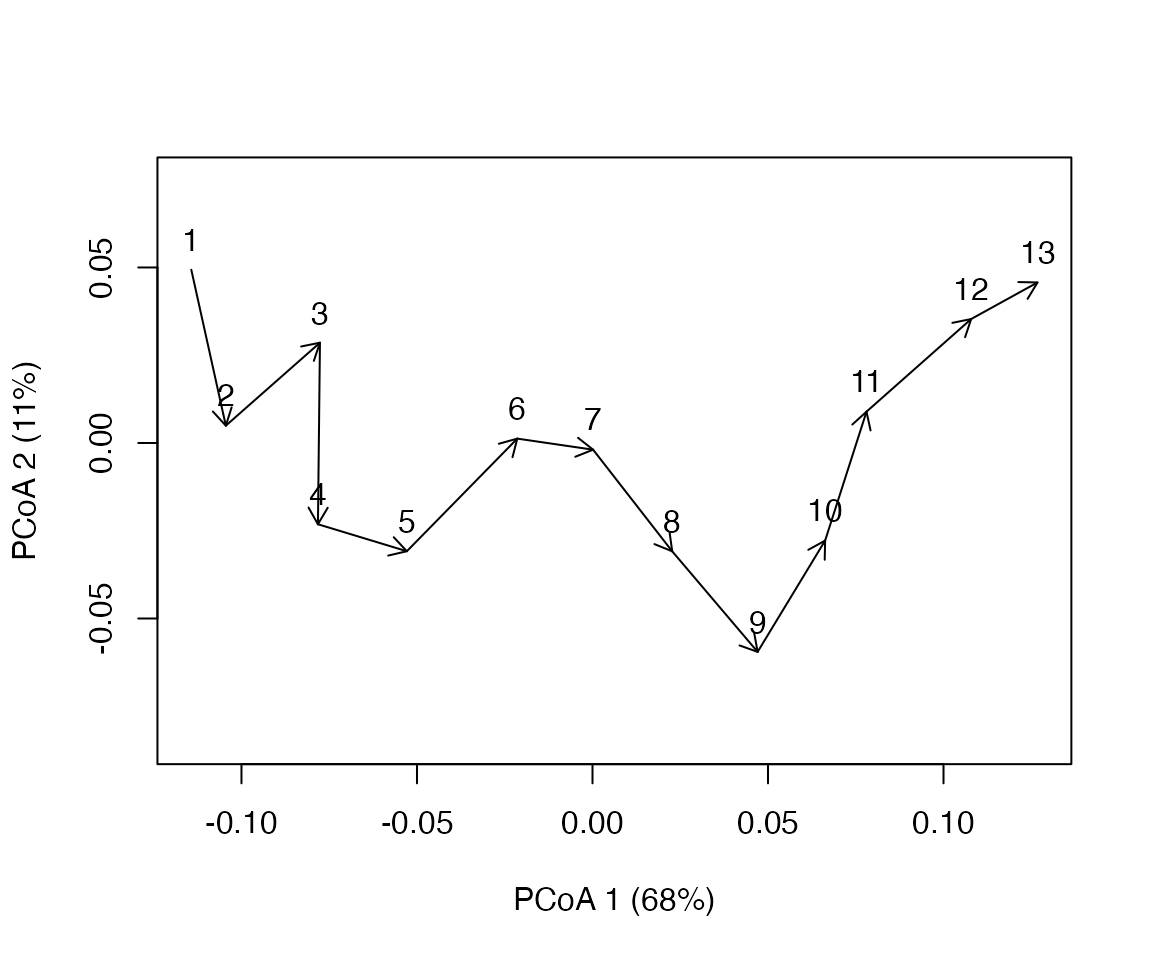
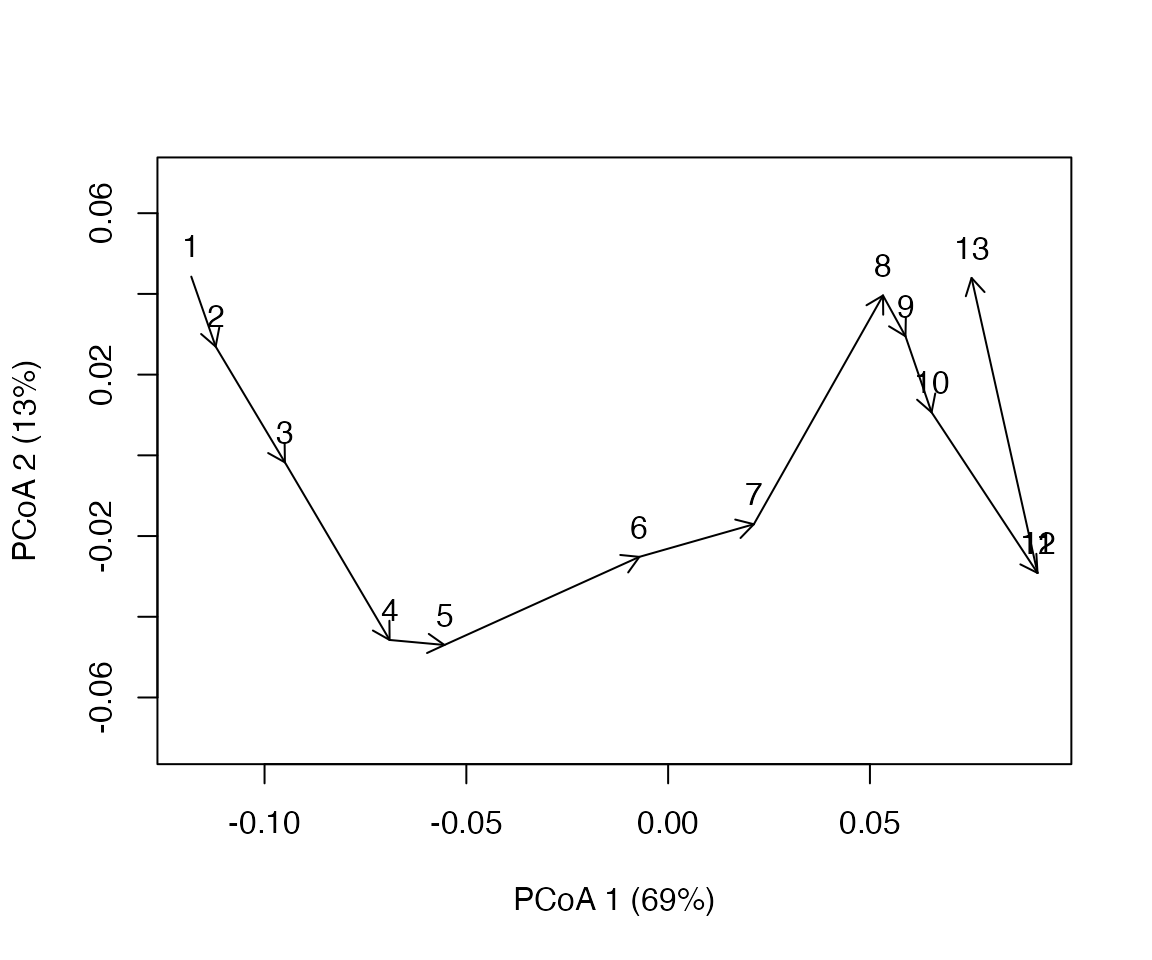
Built site for ecotraj: 0.0.1@fcbf907

diff --git a/articles/Transformation.html b/articles/Transformation.html
@@ -78,7 +78,7 @@
       <h1 data-toc-skip>Transformation of dissimilarities in community data</h1>
                         <h4 class="author">Miquel De Cáceres</h4>
             
-            <h4 class="date">2021-06-08</h4>
+            <h4 class="date">2021-06-10</h4>
       
       
       <div class="hidden name"><code>Transformation.Rmd</code></div>
@@ -213,16 +213,20 @@
 <p>Local transformations are not possible to display trajectories. When we plot the trajectory using function <code>trajectoryPCoA</code> the global transformation of principal coordinates analysis (PCoA) with negative eigenvalue correction is performed. This is fine to display trajectories, but has problems when measuring angular properties, as we will see.</p>
 <div class="sourceCode" id="cb33"><pre class="downlit sourceCode r">
 <code class="sourceCode R"><span class="va">pcoa</span><span class="op">&lt;-</span><span class="fu"><a href="../reference/trajectoryplots.html">trajectoryPCoA</a></span><span class="op">(</span><span class="va">D</span>, <span class="va">sites</span>, <span class="va">surveys</span>, selection<span class="op">=</span><span class="fl">1</span>,length<span class="op">=</span><span class="fl">0.1</span>, axes<span class="op">=</span><span class="fu"><a href="https://rdrr.io/r/base/c.html">c</a></span><span class="op">(</span><span class="fl">1</span>,<span class="fl">2</span><span class="op">)</span>, survey.labels <span class="op">=</span> <span class="cn">T</span><span class="op">)</span></code></pre></div>
+<pre><code>## Warning in arrows(x[niini], y[niini], x[nifin], y[nifin], ...): zero-length
+## arrow is of indeterminate angle and so skipped</code></pre>
 <p><img src="Transformation_files/figure-html/unnamed-chunk-14-1.png" width="576" style="display: block; margin: auto;"></p>
-<div class="sourceCode" id="cb34"><pre class="downlit sourceCode r">
+<div class="sourceCode" id="cb35"><pre class="downlit sourceCode r">
 <code class="sourceCode R"><span class="va">pcoaD</span> <span class="op">=</span> <span class="fu"><a href="https://rdrr.io/r/stats/dist.html">dist</a></span><span class="op">(</span><span class="va">pcoa</span><span class="op">$</span><span class="va">points</span><span class="op">)</span></code></pre></div>
 <p>The trajectory has some twists derived from stochasticity in death and recruitment. Let’s now look at the square root of the Bray-Curtis dissimilarity:</p>
-<div class="sourceCode" id="cb35"><pre class="downlit sourceCode r">
+<div class="sourceCode" id="cb36"><pre class="downlit sourceCode r">
 <code class="sourceCode R"><span class="va">sqrtD</span> <span class="op">=</span> <span class="fu"><a href="https://rdrr.io/r/base/MathFun.html">sqrt</a></span><span class="op">(</span><span class="va">D</span><span class="op">)</span>
 <span class="va">pcoaSqrt</span> <span class="op">=</span> <span class="fu"><a href="../reference/trajectoryplots.html">trajectoryPCoA</a></span><span class="op">(</span><span class="va">sqrtD</span>, <span class="va">sites</span>, <span class="va">surveys</span>, selection<span class="op">=</span><span class="fl">1</span>,length<span class="op">=</span><span class="fl">0.1</span>, axes<span class="op">=</span><span class="fu"><a href="https://rdrr.io/r/base/c.html">c</a></span><span class="op">(</span><span class="fl">1</span>,<span class="fl">2</span><span class="op">)</span>, survey.labels <span class="op">=</span> <span class="cn">T</span><span class="op">)</span></code></pre></div>
+<pre><code>## Warning in arrows(x[niini], y[niini], x[nifin], y[nifin], ...): zero-length
+## arrow is of indeterminate angle and so skipped</code></pre>
 <p><img src="Transformation_files/figure-html/unnamed-chunk-15-1.png" width="576" style="display: block; margin: auto;"></p>
 <p>Finally, we also transform dissimilarities using metric multidimensional scaling (mMDS), provided by package <code>smacof</code>:</p>
-<div class="sourceCode" id="cb36"><pre class="downlit sourceCode r">
+<div class="sourceCode" id="cb38"><pre class="downlit sourceCode r">
 <code class="sourceCode R"><span class="va">res</span> <span class="op">&lt;-</span> <span class="fu">smacof</span><span class="fu">::</span><span class="fu"><a href="https://rdrr.io/pkg/smacof/man/smacofSym.html">mds</a></span><span class="op">(</span><span class="va">D</span>, ndim <span class="op">=</span> <span class="fu"><a href="https://rdrr.io/r/base/length.html">length</a></span><span class="op">(</span><span class="va">Sj</span><span class="op">)</span><span class="op">-</span><span class="fl">1</span>, type <span class="op">=</span> <span class="st">"interval"</span><span class="op">)</span></code></pre></div>
 <pre><code>## Registered S3 methods overwritten by 'car':
 ##   method                          from
@@ -230,22 +234,24 @@
 ##   cooks.distance.influence.merMod lme4
 ##   dfbeta.influence.merMod         lme4
 ##   dfbetas.influence.merMod        lme4</code></pre>
-<div class="sourceCode" id="cb38"><pre class="downlit sourceCode r">
+<div class="sourceCode" id="cb40"><pre class="downlit sourceCode r">
 <code class="sourceCode R"><span class="va">mmdsD</span> <span class="op">&lt;-</span> <span class="fu"><a href="https://rdrr.io/r/stats/dist.html">dist</a></span><span class="op">(</span><span class="va">res</span><span class="op">$</span><span class="va">conf</span><span class="op">)</span>
 <span class="fu"><a href="../reference/trajectoryplots.html">trajectoryPlot</a></span><span class="op">(</span><span class="va">res</span><span class="op">$</span><span class="va">conf</span>, <span class="va">sites</span>, <span class="va">surveys</span>, selection<span class="op">=</span><span class="fl">1</span>,length<span class="op">=</span><span class="fl">0.1</span>, axes<span class="op">=</span><span class="fu"><a href="https://rdrr.io/r/base/c.html">c</a></span><span class="op">(</span><span class="fl">1</span>,<span class="fl">2</span><span class="op">)</span>, survey.labels <span class="op">=</span> <span class="cn">T</span><span class="op">)</span></code></pre></div>
+<pre><code>## Warning in arrows(xp[niini], yp[niini], xp[nifin], yp[nifin], ...): zero-length
+## arrow is of indeterminate angle and so skipped</code></pre>
 <p><img src="Transformation_files/figure-html/unnamed-chunk-16-1.png" width="576" style="display: block; margin: auto;"></p>
 <p>While the three plots look different, the differences are not striking (besides rotation issues). We can compare the stress of the global solutions:</p>
-<div class="sourceCode" id="cb39"><pre class="downlit sourceCode r">
+<div class="sourceCode" id="cb42"><pre class="downlit sourceCode r">
 <code class="sourceCode R"><span class="fu">smacof</span><span class="fu">::</span><span class="fu"><a href="https://rdrr.io/pkg/smacof/man/stress0.html">stress0</a></span><span class="op">(</span><span class="va">D</span>,<span class="va">pcoaSqrt</span><span class="op">$</span><span class="va">points</span>, type<span class="op">=</span><span class="st">"interval"</span><span class="op">)</span></code></pre></div>
-<pre><code>## [1] 0.04722027</code></pre>
-<div class="sourceCode" id="cb41"><pre class="downlit sourceCode r">
+<pre><code>## [1] 0.07178977</code></pre>
+<div class="sourceCode" id="cb44"><pre class="downlit sourceCode r">
 <code class="sourceCode R"><span class="fu">smacof</span><span class="fu">::</span><span class="fu"><a href="https://rdrr.io/pkg/smacof/man/stress0.html">stress0</a></span><span class="op">(</span><span class="va">D</span>,<span class="va">pcoa</span><span class="op">$</span><span class="va">points</span>, type<span class="op">=</span><span class="st">"interval"</span><span class="op">)</span></code></pre></div>
-<pre><code>## [1] 0.01037559</code></pre>
-<div class="sourceCode" id="cb43"><pre class="downlit sourceCode r">
+<pre><code>## [1] 0.01578923</code></pre>
+<div class="sourceCode" id="cb46"><pre class="downlit sourceCode r">
 <code class="sourceCode R"><span class="fu">smacof</span><span class="fu">::</span><span class="fu"><a href="https://rdrr.io/pkg/smacof/man/stress0.html">stress0</a></span><span class="op">(</span><span class="va">D</span>,<span class="va">res</span><span class="op">$</span><span class="va">conf</span>, type<span class="op">=</span><span class="st">"interval"</span><span class="op">)</span></code></pre></div>
-<pre><code>## [1] 0.01331361</code></pre>
+<pre><code>## [1] 0.01610293</code></pre>
 <p>Where we see that the square root leads to the strongest alteration of original dissimilarities. If we calculate geometric properties we are not limited by ordination plots and we can take into account all dimensions.</p>
-<div class="sourceCode" id="cb45"><pre class="downlit sourceCode r">
+<div class="sourceCode" id="cb48"><pre class="downlit sourceCode r">
 <code class="sourceCode R"><span class="va">anglesD</span> <span class="op">=</span> <span class="fu"><a href="../reference/trajectorymetrics.html">trajectoryAngles</a></span><span class="op">(</span><span class="va">D</span>,<span class="va">sites</span>,<span class="va">surveys</span><span class="op">)</span>
 <span class="va">anglesSqrtD</span> <span class="op">=</span> <span class="fu"><a href="../reference/trajectorymetrics.html">trajectoryAngles</a></span><span class="op">(</span><span class="va">sqrtD</span>,<span class="va">sites</span>,<span class="va">surveys</span><span class="op">)</span>
 <span class="va">anglesPcoaD</span> <span class="op">=</span> <span class="fu"><a href="../reference/trajectorymetrics.html">trajectoryAngles</a></span><span class="op">(</span><span class="va">pcoaD</span>,<span class="va">sites</span>,<span class="va">surveys</span><span class="op">)</span>
@@ -254,34 +260,34 @@
 <span class="va">df</span><span class="op">&lt;-</span><span class="fu"><a href="https://rdrr.io/r/base/as.data.frame.html">as.data.frame</a></span><span class="op">(</span><span class="fu"><a href="https://rdrr.io/r/base/cbind.html">rbind</a></span><span class="op">(</span><span class="va">anglesD</span>, <span class="va">anglesSqrtD</span>, <span class="va">anglesPcoaD</span>, <span class="va">anglesmmdsD</span><span class="op">)</span><span class="op">)</span>
 <span class="fu"><a href="https://rdrr.io/r/base/row.names.html">row.names</a></span><span class="op">(</span><span class="va">df</span><span class="op">)</span><span class="op">&lt;-</span><span class="fu"><a href="https://rdrr.io/r/base/c.html">c</a></span><span class="op">(</span><span class="st">"local"</span>, <span class="st">"global.sqrt"</span>, <span class="st">"global.pcoa"</span>, <span class="st">"global.mmds"</span><span class="op">)</span>
 <span class="fu"><a href="https://rdrr.io/r/base/Round.html">round</a></span><span class="op">(</span><span class="va">df</span>,<span class="fl">2</span><span class="op">)</span></code></pre></div>
-<pre><code>##              S1-S2 S2-S3  S3-S4 S4-S5  S5-S6 S6-S7 S7-S8  S8-S9 S9-S10 S10-S11
-## local        67.11 120.0  75.52  0.00  71.79  0.00  0.00  96.38   0.00    0.00
-## global.sqrt  99.59 120.0 101.78 90.00 100.18 90.00 90.00 109.47  90.00   90.00
-## global.pcoa 100.78 120.0 105.11 91.23 102.12 93.91 90.12 110.67  93.91   93.91
-## global.mmds  90.80 123.8  89.69 55.64  86.93 65.86 59.09 101.16  62.42   57.64
-##             S11-S12  mean   sd  rho
-## local          0.00 36.55 0.81 0.72
-## global.sqrt   90.00 97.31 0.17 0.99
-## global.pcoa   93.91 99.57 0.15 0.99
-## global.mmds   61.59 77.31 0.37 0.93</code></pre>
+<pre><code>##              S1-S2 S2-S3  S3-S4 S4-S5 S5-S6 S6-S7  S7-S8  S8-S9 S9-S10 S10-S11
+## local         0.00  0.00   0.00  0.00  0.00  0.00  97.18   0.00   0.00     NaN
+## global.sqrt  90.00 90.00  90.00 90.00 90.00 90.00 104.48  90.00  90.00     NaN
+## global.pcoa 103.90 95.88 100.78 98.40 93.28 93.28 109.21 108.17 100.78  107.88
+## global.mmds  88.16 73.21  79.32 85.79 80.57 71.87 100.49  98.49  83.68  101.31
+##             S11-S12   mean   sd  rho
+## local           NaN   7.18 0.50 0.88
+## global.sqrt     NaN  91.60 0.08 1.00
+## global.pcoa  105.79 101.58 0.10 1.00
+## global.mmds   99.32  87.47 0.18 0.98</code></pre>
 <p>The first call to <code>trajectoryAngles</code> with matrix <code>D</code> represents the default strategy of transforming triangles locally, which involves the weakest transformation of all and can be taken as reference. Both the square root and PCoA with negative eigenvalue correction induce a strong transformation of trajectory angles. The global solution of metric MDS leads to angles that are more similar to those of the local transformation strategy.</p>
 <p>If we inspect the overall directionality, the global solution of metric MDS provides a value that is again closer to that of local transformation, compared to PCoA and the square root:</p>
-<div class="sourceCode" id="cb47"><pre class="downlit sourceCode r">
+<div class="sourceCode" id="cb50"><pre class="downlit sourceCode r">
 <code class="sourceCode R"><span class="fu"><a href="../reference/trajectorymetrics.html">trajectoryDirectionality</a></span><span class="op">(</span><span class="va">D</span>,<span class="va">sites</span>,<span class="va">surveys</span><span class="op">)</span></code></pre></div>
 <pre><code>##         1 
-## 0.7488907</code></pre>
-<div class="sourceCode" id="cb49"><pre class="downlit sourceCode r">
+## 0.7552646</code></pre>
+<div class="sourceCode" id="cb52"><pre class="downlit sourceCode r">
 <code class="sourceCode R"><span class="fu"><a href="../reference/trajectorymetrics.html">trajectoryDirectionality</a></span><span class="op">(</span><span class="va">sqrtD</span>,<span class="va">sites</span>,<span class="va">surveys</span><span class="op">)</span></code></pre></div>
 <pre><code>##         1 
-## 0.4663206</code></pre>
-<div class="sourceCode" id="cb51"><pre class="downlit sourceCode r">
+## 0.4640843</code></pre>
+<div class="sourceCode" id="cb54"><pre class="downlit sourceCode r">
 <code class="sourceCode R"><span class="fu"><a href="../reference/trajectorymetrics.html">trajectoryDirectionality</a></span><span class="op">(</span><span class="va">pcoaD</span>,<span class="va">sites</span>,<span class="va">surveys</span><span class="op">)</span></code></pre></div>
 <pre><code>##         1 
-## 0.5248293</code></pre>
-<div class="sourceCode" id="cb53"><pre class="downlit sourceCode r">
+## 0.4970305</code></pre>
+<div class="sourceCode" id="cb56"><pre class="downlit sourceCode r">
 <code class="sourceCode R"><span class="fu"><a href="../reference/trajectorymetrics.html">trajectoryDirectionality</a></span><span class="op">(</span><span class="va">mmdsD</span>,<span class="va">sites</span>,<span class="va">surveys</span><span class="op">)</span></code></pre></div>
 <pre><code>##         1 
-## 0.6190056</code></pre>
+## 0.5630189</code></pre>
 </div>
 <div id="conclusions" class="section level2">
 <h2 class="hasAnchor">

diff --git a/reference/avoca.html b/reference/avoca.html
@@ -43,7 +43,8 @@
 <meta property="og:description" content="Example dataset with data from 8 permanent forest plots located on slopes of a valley in the New Zealand Alps. 
 The study area is mountainous and centered on the Craigieburn Range (Southern Alps), South Island, New Zealand.  
 Forests plots are almost monospecific, being the mountain beech (Fuscospora cliffortioides) the main dominant tree species. 
-Previously forests consisted of largely mature stands, but some of them were affected by different disturbances during the sampling period (1972-2009) which includes 9 surveys." />
+Previously forests consisted of largely mature stands, but some of them were affected by different disturbances during the sampling period (1972-2009) 
+which includes 9 surveys." />
 
 
 
@@ -130,7 +131,8 @@ Previously forests consisted of largely mature stands, but some of them were aff
     <p>Example dataset with data from 8 permanent forest plots located on slopes of a valley in the New Zealand Alps. 
 The study area is mountainous and centered on the Craigieburn Range (Southern Alps), South Island, New Zealand.  
 Forests plots are almost monospecific, being the mountain beech (Fuscospora cliffortioides) the main dominant tree species. 
-Previously forests consisted of largely mature stands, but some of them were affected by different disturbances during the sampling period (1972-2009) which includes 9 surveys.</p>
+Previously forests consisted of largely mature stands, but some of them were affected by different disturbances during the sampling period (1972-2009) 
+which includes 9 surveys.</p>
     </div>
 
 

diff --git a/articles/IntroductionETA.html b/articles/IntroductionETA.html
@@ -78,7 +78,7 @@
       <h1 data-toc-skip>Introduction to Ecological Trajectory Analysis</h1>
                         <h4 class="author">Miquel De Cáceres</h4>
             
-            <h4 class="date">2021-06-08</h4>
+            <h4 class="date">2021-06-10</h4>
       
       
       <div class="hidden name"><code>IntroductionETA.Rmd</code></div>
